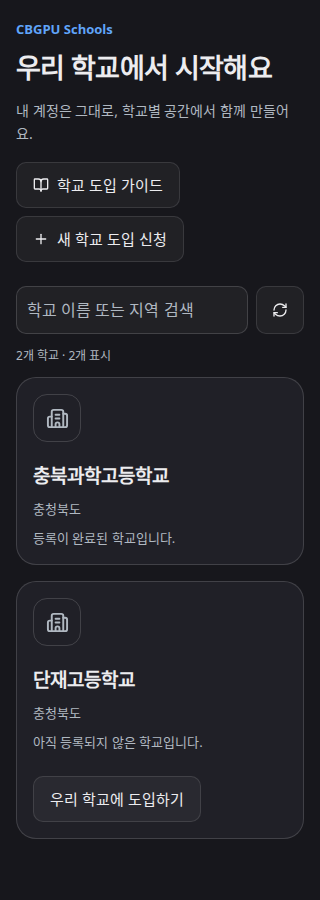
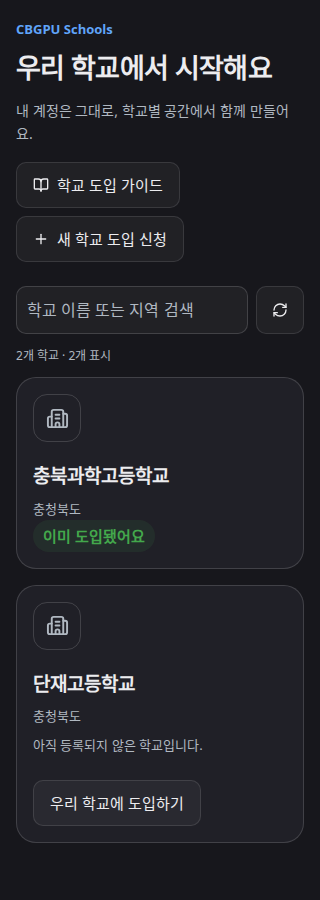
Mark adopted schools with a single concise status badge (#41)

Changed region(s): [[0.0625, 0.5911, 0.9375, 0.84], [0.1562, 0.8711, 0.5938, 0.9022]]

diff --git a/src/components/schools/SchoolDirectory.tsx b/src/components/schools/SchoolDirectory.tsx
@@ -1,5 +1,6 @@
 'use client';
 import {Dropdown} from '@/components/ui/dropdown';
+import {Badge} from '@/components/ui/badge';
 import {useEffect,useRef,useState} from 'react';
 import Link from 'next/link';
 import {useAuth} from '@/lib/useAuth';
@@ -28,6 +29,6 @@ function SchoolDirectorySession(){
  useEffect(()=>{const timer=setTimeout(()=>void load(),200);return()=>{clearTimeout(timer);request.current++}},[query]);useEffect(()=>{const sync=()=>{if(user&&document.visibilityState==='visible')void loadMemberships()};if(user)void loadMemberships();else{setMemberships([]);setCurrent(null)}window.addEventListener('focus',sync);window.addEventListener('cbgpu-school-changed',sync);const timer=setInterval(sync,60_000);return()=>{membershipRequest.current++;clearInterval(timer);window.removeEventListener('focus',sync);window.removeEventListener('cbgpu-school-changed',sync)}},[user?.id]);
  async function chooseSchool(schoolId:string){if(choosingSchool)return;const owner=user?.id;setChoosingSchool(schoolId);try{const selected=await selectAccountSchool(schoolId,owner);if(identity.current!==owner)return;setCurrent(selected);window.dispatchEvent(new CustomEvent('cbgpu-school-changed',{detail:{school_id:selected}}))}catch(e){if(identity.current===owner)setError(e instanceof Error?e.message:'학교를 전환하지 못했어요.')}finally{if(identity.current===owner)setChoosingSchool('')}}
  async function requestJoin(){if(!join||!user||busy)return;if(kind==='STUDENT'){const issue=schoolJoinStudentNumberError(student);if(issue){setJoinError(issue);return}}setBusy(true);setJoinError('');try{await schoolsRequest('schools/'+join.id+'/memberships','POST',{membership_type:kind,...(kind==='STUDENT'?{student_number:student}:{}),...(kind==='TEACHER'?{department}:{})},false,user.id);if(identity.current===user.id){setJoined(true);await loadMemberships()}}catch(e){setJoinError(e instanceof Error?e.message:'학교 가입을 요청하지 못했어요.')}finally{setBusy(false)}}
- return <><header className="cb-school-directory-header"><div><span className="cb-school-eyebrow">CBGPU Schools</span><h1>우리 학교에서 시작해요</h1><p>내 계정은 그대로, 학교별 공간에서 함께 만들어요.</p></div><div className="flex flex-wrap gap-2"><Button asChild variant="outline"><Link href="/docs/school-integration"><BookOpen size={17}/>학교 도입 가이드</Link></Button><Button asChild variant="outline"><Link href="/schools/new"><Plus size={17}/>새 학교 도입 신청</Link></Button></div></header>{user&&<SchoolSwitcher memberships={memberships} current={current} onSwitched={school=>{setCurrent(school);window.dispatchEvent(new CustomEvent('cbgpu-school-changed',{detail:{school_id:school}}))}}/>}<form className="cb-school-directory-search" onSubmit={e=>{e.preventDefault();void load()}}><label htmlFor="school-directory-search" className="sr-only">학교 이름 또는 지역 검색</label><Input id="school-directory-search" type="search" autoComplete="off" value={query} onChange={e=>{request.current++;setLoading(true);setLoadingMore(false);setQuery(e.target.value)}} placeholder="학교 이름 또는 지역 검색"/><Button type="submit" variant="outline" disabled={loading} aria-label="학교 목록 새로고침"><RefreshCw size={18}/></Button></form><InlineFeedback message={error}/><p className="cb-school-directory-status" role="status">{loading?'학교를 찾고 있어요.':`${total.toLocaleString()}개 학교 · ${schools.length.toLocaleString()}개 표시`}</p><KakaoPageAd placement="platform" contentReady={!loading&&!error&&schools.length>0}/><div className="cb-school-directory-grid" aria-busy={loading}>{schools.map(school=>{const membership=memberships.find(m=>m.school_id===school.id);return <article key={school.id}><span className="cb-school-directory-icon"><Building2 size={23}/></span><h2>{school.display_name||school.official_name}</h2><p>{school.region}</p>{school.status==='APPROVED'&&<p className="cb-school-membership-state">등록이 완료된 학교입니다.</p>}{school.status!=='APPROVED'?<><p className="cb-school-membership-state">{school.status==='SUSPENDED'?'학교 운영 일시 중지':'아직 등록되지 않은 학교입니다.'}</p>{school.status!=='SUSPENDED'&&<Button asChild variant="outline"><Link href={schoolIntegrationHref(school.id)}>우리 학교에 도입하기</Link></Button>}</>:membership?<><p className="cb-school-membership-state">{membership.status==='ACTIVE'&&membership.verified?'인증된 학교 구성원':membership.status==='SUSPENDED'?'소속 이용 제한':membership.status==='REVERIFICATION_REQUIRED'?'소속 재인증 필요':'소속 확인 대기'}</p>{membership.status==='ACTIVE'&&membership.verified&&<Button type="button" variant="outline" disabled={!!choosingSchool||current===school.id} onClick={()=>void chooseSchool(school.id)}>{current===school.id?<><Check size={16}/>현재 학교</>:<>이 학교로 전환<ArrowRight size={16}/></>}</Button>}</>:!user?null:<Button type="button" variant="outline" disabled={school.allowed_membership_types?.length===0} onClick={()=>{setJoin(school);setKind(school.allowed_membership_types?.[0]||'STUDENT');setStudent('');setDepartment('');setJoinError('');setJoined(false)}}>{school.allowed_membership_types?.length===0?'가입 요청 마감':'학교 가입하기'}<ArrowRight size={16}/></Button>}{membership&&membership.status!=='SUSPENDED'&&school.status==='APPROVED'&&<Button asChild variant="outline"><Link href={'/schools/'+school.id+'/affiliation'}>내 학생·교사 소속 확인 요청</Link></Button>}{membership?.status==='REVERIFICATION_REQUIRED'&&school.status==='APPROVED'&&<Button asChild><Link href={'/schools/'+school.id+'/verification'}>새 학번으로 재인증하기<ArrowRight size={16}/></Link></Button>}{membership?.status==='ACTIVE'&&membership.verified&&school.status==='APPROVED'&&<Button asChild variant="ghost"><Link href={'/schools/'+school.id+'/access'}>외부 협업자 이용 요청<ArrowRight size={16}/></Link></Button>}</article>})}</div>{!loading&&schools.length>0&&schools.length<total&&<div className="cb-school-directory-status"><Button type="button" variant="outline" disabled={loadingMore} onClick={()=>void load(true)}>{loadingMore?'학교를 더 불러오고 있어요…':'학교 더 보기'}</Button></div>}{!loading&&!error&&!schools.length&&<EmptyState title="학교를 찾지 못했어요" description="학교 이름이나 지역을 바꾸어 검색하거나 새 학교 도입을 신청해주세요." action={<Button asChild variant="outline"><Link href="/schools/new">새 학교 도입 신청</Link></Button>}/>}
+ return <><header className="cb-school-directory-header"><div><span className="cb-school-eyebrow">CBGPU Schools</span><h1>우리 학교에서 시작해요</h1><p>내 계정은 그대로, 학교별 공간에서 함께 만들어요.</p></div><div className="flex flex-wrap gap-2"><Button asChild variant="outline"><Link href="/docs/school-integration"><BookOpen size={17}/>학교 도입 가이드</Link></Button><Button asChild variant="outline"><Link href="/schools/new"><Plus size={17}/>새 학교 도입 신청</Link></Button></div></header>{user&&<SchoolSwitcher memberships={memberships} current={current} onSwitched={school=>{setCurrent(school);window.dispatchEvent(new CustomEvent('cbgpu-school-changed',{detail:{school_id:school}}))}}/>}<form className="cb-school-directory-search" onSubmit={e=>{e.preventDefault();void load()}}><label htmlFor="school-directory-search" className="sr-only">학교 이름 또는 지역 검색</label><Input id="school-directory-search" type="search" autoComplete="off" value={query} onChange={e=>{request.current++;setLoading(true);setLoadingMore(false);setQuery(e.target.value)}} placeholder="학교 이름 또는 지역 검색"/><Button type="submit" variant="outline" disabled={loading} aria-label="학교 목록 새로고침"><RefreshCw size={18}/></Button></form><InlineFeedback message={error}/><p className="cb-school-directory-status" role="status">{loading?'학교를 찾고 있어요.':`${total.toLocaleString()}개 학교 · ${schools.length.toLocaleString()}개 표시`}</p><KakaoPageAd placement="platform" contentReady={!loading&&!error&&schools.length>0}/><div className="cb-school-directory-grid" aria-busy={loading}>{schools.map(school=>{const membership=memberships.find(m=>m.school_id===school.id);return <article key={school.id}><span className="cb-school-directory-icon"><Building2 size={23}/></span><h2>{school.display_name||school.official_name}</h2><p>{school.region}</p>{school.status==='APPROVED'&&<Badge variant="success" className="text-sm">이미 도입됐어요</Badge>}{school.status!=='APPROVED'?<><p className="cb-school-membership-state">{school.status==='SUSPENDED'?'학교 운영 일시 중지':'아직 등록되지 않은 학교입니다.'}</p>{school.status!=='SUSPENDED'&&<Button asChild variant="outline"><Link href={schoolIntegrationHref(school.id)}>우리 학교에 도입하기</Link></Button>}</>:membership?<><p className="cb-school-membership-state">{membership.status==='ACTIVE'&&membership.verified?'인증된 학교 구성원':membership.status==='SUSPENDED'?'소속 이용 제한':membership.status==='REVERIFICATION_REQUIRED'?'소속 재인증 필요':'소속 확인 대기'}</p>{membership.status==='ACTIVE'&&membership.verified&&<Button type="button" variant="outline" disabled={!!choosingSchool||current===school.id} onClick={()=>void chooseSchool(school.id)}>{current===school.id?<><Check size={16}/>현재 학교</>:<>이 학교로 전환<ArrowRight size={16}/></>}</Button>}</>:!user?null:<Button type="button" variant="outline" disabled={school.allowed_membership_types?.length===0} onClick={()=>{setJoin(school);setKind(school.allowed_membership_types?.[0]||'STUDENT');setStudent('');setDepartment('');setJoinError('');setJoined(false)}}>{school.allowed_membership_types?.length===0?'가입 요청 마감':'학교 가입하기'}<ArrowRight size={16}/></Button>}{membership&&membership.status!=='SUSPENDED'&&school.status==='APPROVED'&&<Button asChild variant="outline"><Link href={'/schools/'+school.id+'/affiliation'}>내 학생·교사 소속 확인 요청</Link></Button>}{membership?.status==='REVERIFICATION_REQUIRED'&&school.status==='APPROVED'&&<Button asChild><Link href={'/schools/'+school.id+'/verification'}>새 학번으로 재인증하기<ArrowRight size={16}/></Link></Button>}{membership?.status==='ACTIVE'&&membership.verified&&school.status==='APPROVED'&&<Button asChild variant="ghost"><Link href={'/schools/'+school.id+'/access'}>외부 협업자 이용 요청<ArrowRight size={16}/></Link></Button>}</article>})}</div>{!loading&&schools.length>0&&schools.length<total&&<div className="cb-school-directory-status"><Button type="button" variant="outline" disabled={loadingMore} onClick={()=>void load(true)}>{loadingMore?'학교를 더 불러오고 있어요…':'학교 더 보기'}</Button></div>}{!loading&&!error&&!schools.length&&<EmptyState title="학교를 찾지 못했어요" description="학교 이름이나 지역을 바꾸어 검색하거나 새 학교 도입을 신청해주세요." action={<Button asChild variant="outline"><Link href="/schools/new">새 학교 도입 신청</Link></Button>}/>}
  <Dialog open={!!join} onOpenChange={open=>{if(!open&&!busy)setJoin(null)}}><DialogContent className="cb-school-picker"><DialogHeader><DialogTitle>{join?.display_name||join?.official_name} 가입</DialogTitle><DialogDescription>선택만으로 학교 자원 접근 권한이 생기지 않아요. 학교 정책에 따라 소속 확인과 승인이 필요해요.</DialogDescription></DialogHeader>{joined?<SuccessFeedback compact title="소속 확인을 요청했어요" description="확인이 완료되기 전에는 학교 전용 자원을 사용할 수 없어요. 기존 프로젝트는 계속 사용할 수 있어요."/>:!user&&!isLoading?<EmptyState kind="permission" title="먼저 내 계정을 만들어주세요" description="학교와 별개인 CBGPU 계정으로 로그인한 뒤 소속을 요청할 수 있어요." action={<Button asChild><Link href="/auth/signup">계정 만들기</Link></Button>}/>:<form className="cb-school-step-body" onSubmit={e=>{e.preventDefault();void requestJoin()}}><label className="cb-school-field"><span>가입 유형</span><Dropdown value={kind} disabled={busy} onChange={e=>setKind(e.target.value as typeof kind)}>{(!join?.allowed_membership_types||join.allowed_membership_types.includes('STUDENT'))&&<option value="STUDENT">학생</option>}{(!join?.allowed_membership_types||join.allowed_membership_types.includes('TEACHER'))&&<option value="TEACHER">교사</option>}{(!join?.allowed_membership_types||join.allowed_membership_types.includes('EXTERNAL'))&&<option value="EXTERNAL">외부 협업자</option>}</Dropdown></label>{kind==='STUDENT'&&<label className="cb-school-field"><span>{join?.id==='cbsh'?'학번':'학교 학생 번호'}</span><Input required value={student} maxLength={join?.id==='cbsh'?4:80} inputMode={join?.id==='cbsh'?'numeric':'text'} onChange={e=>setStudent(join?.id==='cbsh'?e.target.value.replace(/\D/g,'').slice(0,4):e.target.value)} disabled={busy}/><small>{join?.id==='cbsh'?'기존 충북과학고 4자리 학번을 사용해요.':'학교의 소속 확인 정책에 따라 관리자가 확인해요.'}</small></label>}{kind==='TEACHER'&&<label className="cb-school-field"><span>담당 교과 또는 부서 (선택)</span><Input maxLength={150} value={department} onChange={e=>setDepartment(e.target.value)} disabled={busy}/><small>교사 소속이 확인돼도 관리자 권한은 자동으로 부여되지 않아요.</small></label>}{kind==='EXTERNAL'&&<InlineFeedback kind="info" message="외부 협업자 소속과 학교 GPU·내부 자원 사용 권한은 별개예요. 자원 접근에는 별도 승인과 기간·범위 확인이 필요해요."/>}<InlineFeedback message={joinError}/><Button type="submit" disabled={busy||!user}>{busy?'요청 중…':'소속 확인 요청'}</Button></form>}</DialogContent></Dialog></>;
 }

diff --git a/src/components/schools/CatalogSchoolPicker.tsx b/src/components/schools/CatalogSchoolPicker.tsx
@@ -1,5 +1,6 @@
 'use client';
 import {Dropdown} from '@/components/ui/dropdown';
+import {Badge} from '@/components/ui/badge';
 import{useCallback,useEffect,useRef,useState}from'react';
 import{schoolsRequest,type SchoolSummary}from'@/lib/schoolsClient';
 import{Button}from'@/components/ui/button';
@@ -30,7 +31,7 @@ export default function CatalogSchoolPicker({value,onChange,initialId,disabled=f
   <div className="grid gap-3 sm:grid-cols-[minmax(0,1fr)_180px]"><label className="cb-school-field"><span>학교 이름 또는 지역 검색</span><Input type="search" value={query} disabled={disabled} onChange={event=>setQuery(event.target.value)} placeholder="검색 없이 아래 목록에서 선택해도 돼요"/></label><label className="cb-school-field"><span>지역으로 둘러보기</span><Dropdown className="min-h-11 rounded-lg border border-input bg-background px-3 text-sm" value={regions.includes(query)?query:''} disabled={disabled} onChange={event=>setQuery(event.target.value)}><option value="">전체 지역</option>{regions.map(region=><option key={region} value={region}>{region}</option>)}</Dropdown></label></div>
   <InlineFeedback message={error}/>{value&&<p role="status">선택한 학교: <strong>{value.official_name}</strong> · {value.region}</p>}
   <p className="cb-school-help" role="status">{loading?'학교 목록을 불러오고 있어요.':(query.trim()?'검색 결과 ':'전체 ')+total.toLocaleString()+'개 학교 · '+items.length.toLocaleString()+'개 표시'}</p>
-  {!loading&&<ul className="cb-school-options">{items.map(school=><li key={school.id}>{school.status==='LISTED'||school.status==='UNCLAIMED'?<button type="button" disabled={disabled} aria-pressed={value?.id===school.id} onClick={()=>onChange(school)}><span><strong>{school.official_name}</strong><small>{school.region} · 아직 등록되지 않은 학교입니다.</small></span></button>:school.status==='APPROVED'?<div className="p-3"><strong>{school.official_name}</strong><p>등록이 완료된 학교입니다.</p></div>:<p className="p-3">{school.official_name} · 현재 도입 신청을 받을 수 없어요.</p>}</li>)}</ul>}
+  {!loading&&<ul className="cb-school-options">{items.map(school=><li key={school.id}>{school.status==='LISTED'||school.status==='UNCLAIMED'?<button type="button" disabled={disabled} aria-pressed={value?.id===school.id} onClick={()=>onChange(school)}><span><strong>{school.official_name}</strong><small>{school.region} · 아직 등록되지 않은 학교입니다.</small></span></button>:school.status==='APPROVED'?<div className="p-3"><strong>{school.official_name}</strong><Badge variant="success" className="mt-2 text-sm">이미 도입됐어요</Badge></div>:<p className="p-3">{school.official_name} · 현재 도입 신청을 받을 수 없어요.</p>}</li>)}</ul>}
   {!loading&&offset<total&&<Button type="button" variant="outline" className="min-h-11 w-full" disabled={disabled||loadingMore} onClick={()=>void search(offset)}>{loadingMore?'다음 학교를 불러오는 중…':'학교 더 보기'}</Button>}
   {!loading&&error&&<Button type="button" variant="outline" disabled={disabled||loadingMore} onClick={()=>void search(offset?offset:0)}>학교 목록 다시 불러오기</Button>}
   {!loading&&!items.length&&!error&&<p>일치하는 학교가 없어요. 다른 검색어를 입력하거나 전체 학교 목록으로 돌아가 보세요.</p>}

diff --git a/src/components/publications/docs.ts b/src/components/publications/docs.ts
@@ -66,7 +66,7 @@ export const guides:Guide[] = [
       "title": "먼저 우리 학교의 도입·신청 여부를 확인해요",
       "body": "학교 찾기에서 정식 학교 이름과 지역을 확인하고, 교내 담당자에게 이미 도입을 신청한 사람이 있는지 먼저 물어보세요. 나이스(NEIS) 공식 학교 목록에 검색되는 것과 CBGPU 도입 승인은 달라요. ‘아직 등록되지 않은 학교입니다’로 보여도 다른 사람이 신청을 진행 중일 수 있어요.",
       "steps": [
-        "‘등록이 완료된 학교입니다’라고 표시되면 이미 도입된 학교예요. 로그인한 구성원에게는 가입·전환이나 소속 상태도 표시될 수 있어요. 새 도입 신청 대신 구성원 가입·소속 확인을 진행하세요. 새 운영 담당자는 기존 담당자나 운영팀에 관리자 접근을 문의하세요.",
+        "‘이미 도입됐어요’가 표시되면 이미 도입된 학교예요. 로그인한 구성원에게는 가입·전환이나 소속 상태도 표시될 수 있어요. 새 도입 신청 대신 구성원 가입·소속 확인을 진행하세요. 새 운영 담당자는 기존 담당자나 운영팀에 관리자 접근을 문의하세요.",
         "‘아직 등록되지 않은 학교입니다’이면 공식 학교 정보만 있는 상태예요. ‘우리 학교에 도입하기’를 누르면 이 안내로 연결되고, 선택한 학교로 도입 신청을 이어갈 수 있어요. 도입이 완료됐다는 뜻도, 다른 사람의 신청이 없다는 뜻도 아니에요.",
         "교내 담당자가 이미 신청했다면 중복 신청하지 말고 그 담당자와 진행 상황을 확인하세요. 신청자는 본인 계정의 ‘내 학교 신청 확인’에서 초안·승인 대기·승인됨 상태를 확인할 수 있어요. 이 화면을 다른 사람의 신청까지 조회하는 목록으로 사용하지 마세요.",
         "신청한 사람이 있는지 확실하지 않거나 ‘학교 운영 일시 중지’가 보이면 새로 신청하기 전에 운영팀에 학교 이름·지역을 알려 확인하세요. 이미 도입됐거나 신청 중인 학교는 재신청하지 않아요.",
